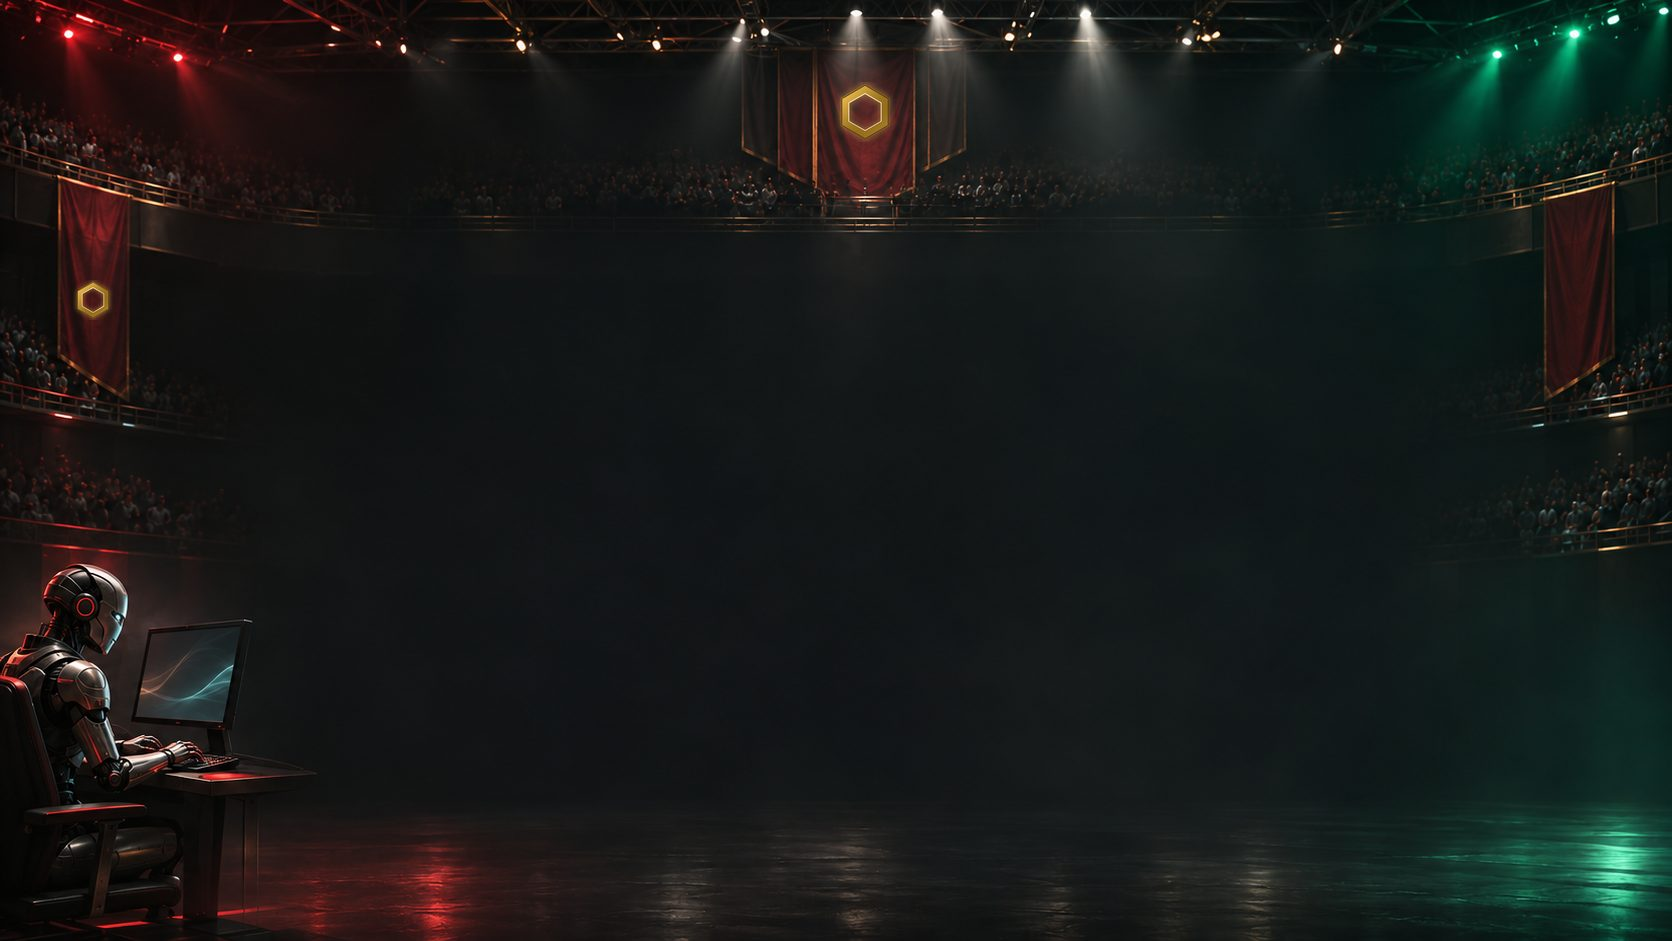
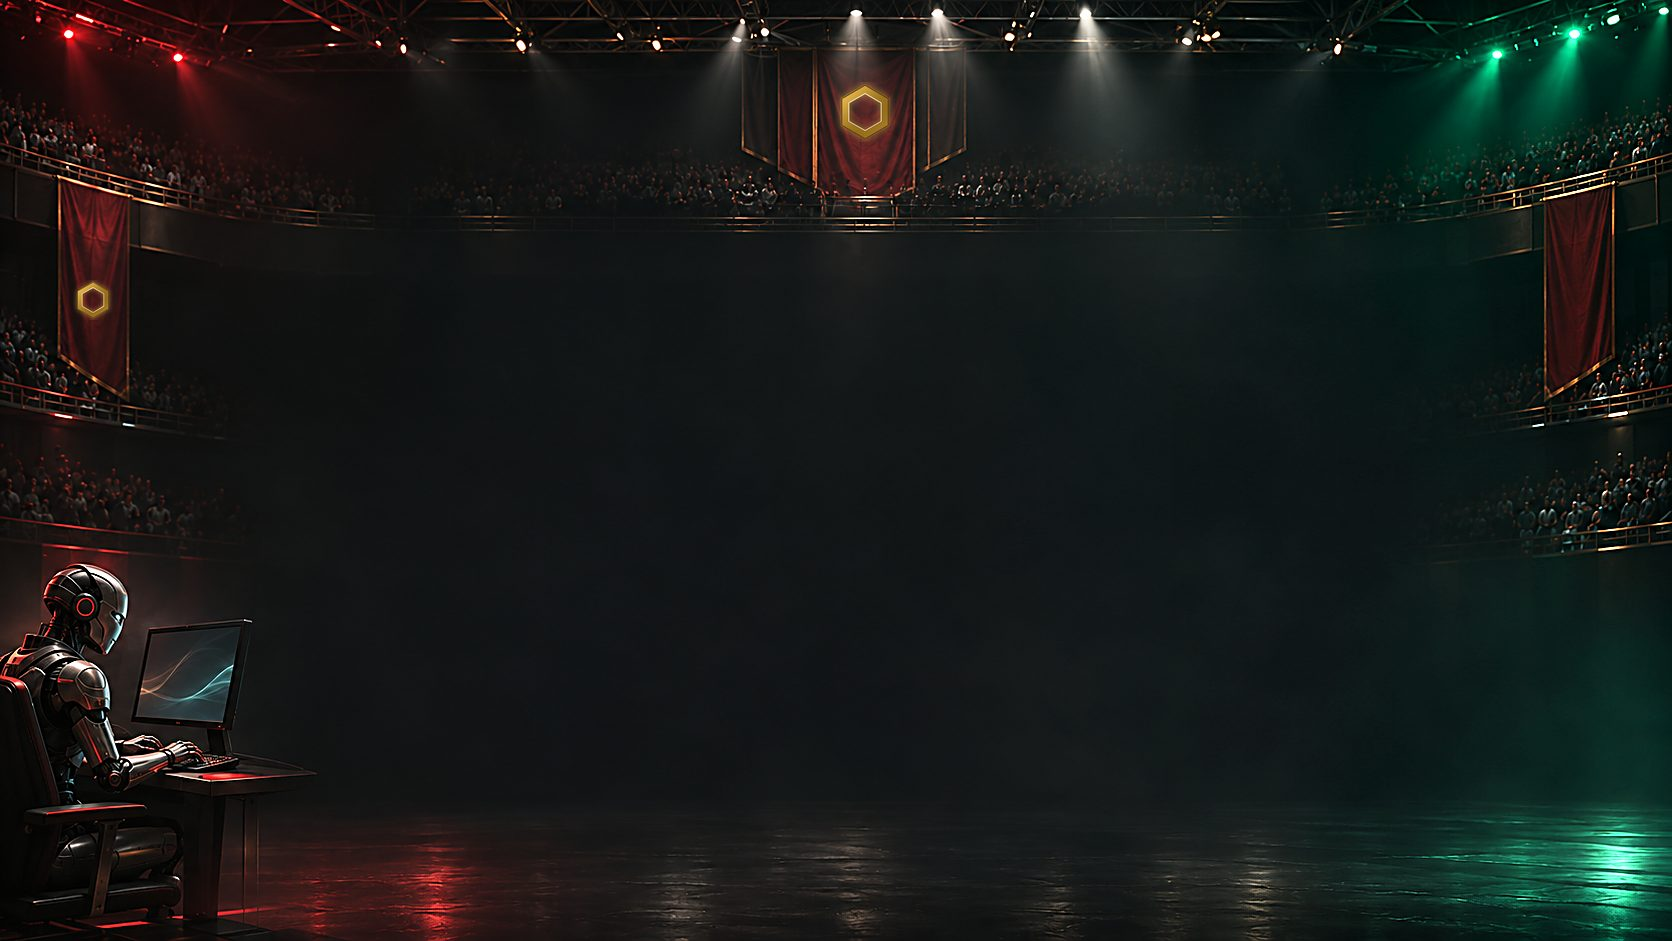
Ranking hall picture: sharper, the misty right side given back its contrast; the shade centred on the table

diff --git a/site/assets/rating.css b/site/assets/rating.css
@@ -15,7 +15,7 @@ body.rankpage #bg { display: none; }
 .rpic { position: absolute; left: 0; top: var(--bar-h); width: 100%; height: var(--ph); background: url(rating/wide.jpg) 0 0 / 100% 100% no-repeat;
   -webkit-mask-image: linear-gradient(180deg, transparent 0, #000 36px, #000 calc(100% - 90px), transparent 100%); mask-image: linear-gradient(180deg, transparent 0, #000 36px, #000 calc(100% - 90px), transparent 100%); }
 /* only the middle, behind the table, is shaded: the robot and the lights stay as they are */
-.rbg::after { content: ''; position: absolute; inset: 0; pointer-events: none; background: radial-gradient(ellipse 46% 56% at 56% 62%, rgba(7,8,12,.5), rgba(7,8,12,.12) 72%, transparent 100%); }
+.rbg::after { content: ''; position: absolute; inset: 0; pointer-events: none; background: radial-gradient(ellipse 40% 52% at 49% 60%, rgba(7,8,12,.45), rgba(7,8,12,.1) 70%, transparent 100%); }
 @media (orientation: portrait) {
   :root { --bar-h: 150px; --ph: calc(100vw * 1672 / 941); }
   .rpic { background-image: url(rating/tall.jpg); }
